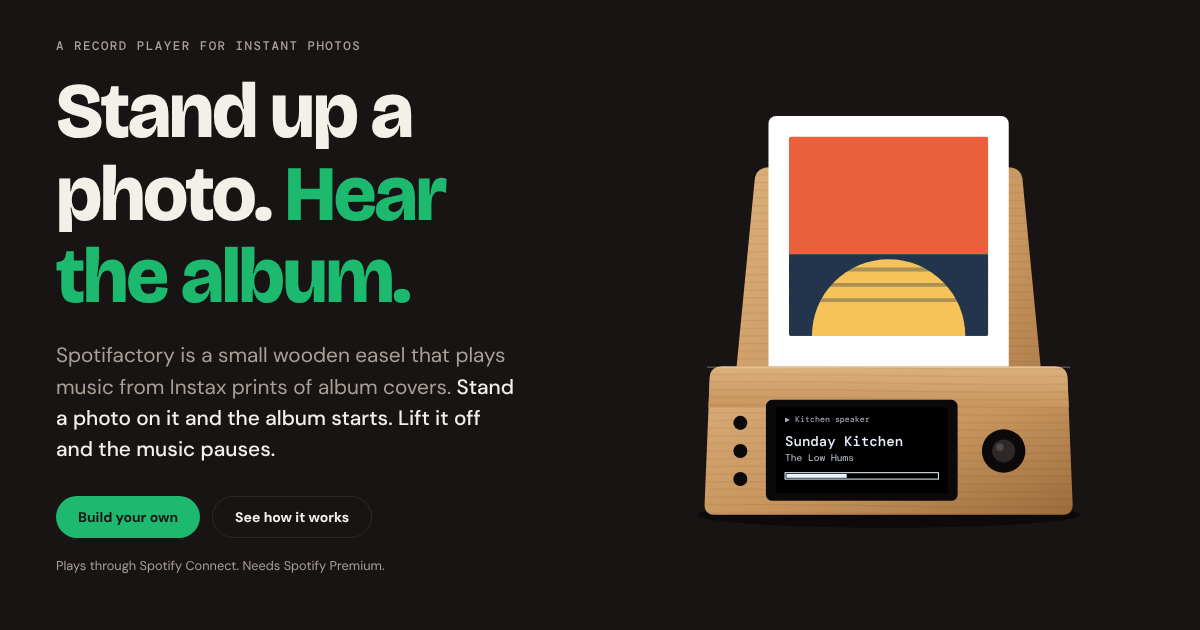
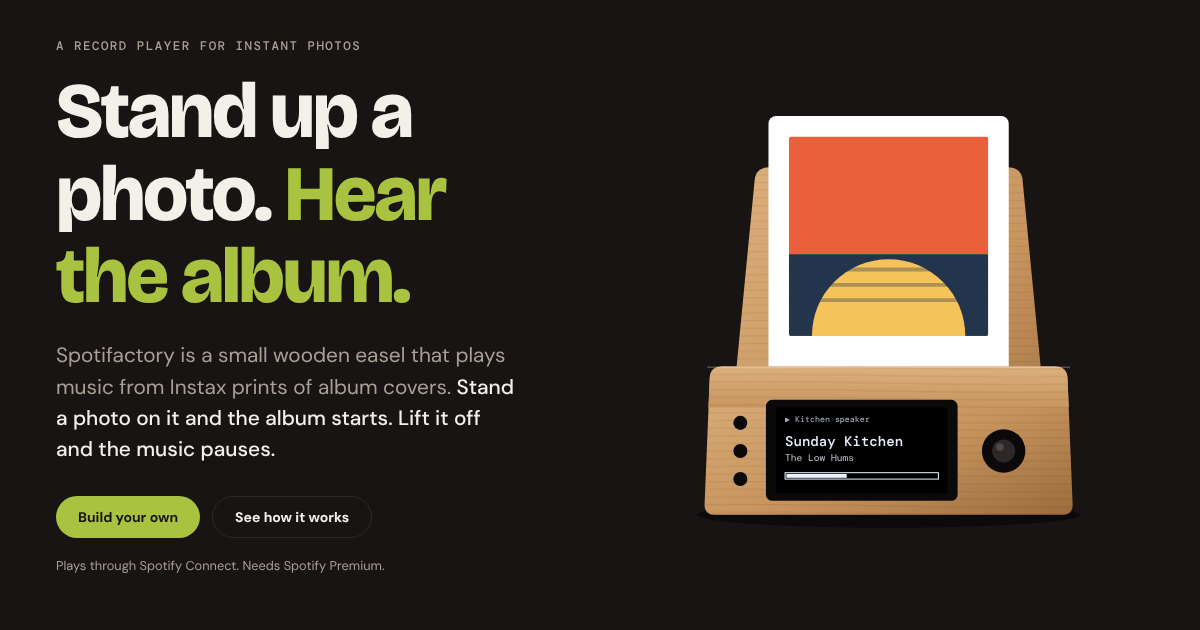
Site: switch the accent to avocado chartreuse #A9C23F
#5C6B1C for text on light backgrounds. Regenerates the favicon and the
link-preview image.

Claude-Session: https://claude.ai/code/session_01TuwtPvwNTAgBcr1MLb96hW

Changed region(s): [[0.0308, 0.3921, 0.3392, 0.4825], [0.2158, 0.2714, 0.37, 0.3619], [0.0308, 0.7841, 0.185, 0.8746]]

diff --git a/site/index.html b/site/index.html
@@ -25,8 +25,8 @@ img { max-width: 100%; }
   --ink: #191414;          /* brand ink, page ground */
   --ink-2: #221d1d;        /* raised surfaces */
   --ink-3: #2e2727;        /* hairlines on ink */
-  --green: #1DB96E;        /* brand green, used sparingly */
-  --green-deep: #128A52;   /* green on paper */
+  --green: #A9C23F;        /* brand green, used sparingly */
+  --green-deep: #5C6B1C;   /* green on paper */
   --paper: #f7f4ef;        /* Instax film white, warm */
   --paper-2: #ebe5dc;
   --fg: #f3efe9;           /* text on ink */
@@ -303,9 +303,9 @@ footer p { max-width: 62ch; }
   <div class="wrap">
     <a href="#" aria-label="Spotifactory home"><svg class="lockup" role="img" aria-label="Spotifactory" xmlns="http://www.w3.org/2000/svg" viewBox="0 0 298.46 64"><g transform="scale(0.74)"><rect width="72" height="86" rx="4" fill="#ffffff"/>
 <rect x="5" y="6" width="62" height="62" rx="1" fill="#191414"/>
-<circle cx="36" cy="37" r="24" fill="#1DB96E"/>
+<circle cx="36" cy="37" r="24" fill="#A9C23F"/>
 <path d="M16.45,37a19.55,19.55 0 1,0 39.1,0a19.55,19.55 0 1,0 -39.1,0ZM17.55,37a18.45,18.45 0 1,0 36.9,0a18.45,18.45 0 1,0 -36.9,0ZM20.95,37a15.05,15.05 0 1,0 30.1,0a15.05,15.05 0 1,0 -30.1,0ZM22.05,37a13.95,13.95 0 1,0 27.9,0a13.95,13.95 0 1,0 -27.9,0Z" fill="#191414" fill-rule="evenodd" opacity="0.45"/>
-<circle cx="36" cy="37" r="8" fill="#191414"/><circle cx="36" cy="37" r="2.2" fill="#1DB96E"/></g><path d="M81.55 46.48Q78.52 46.48 76.13 45.43Q73.75 44.38 72.38 42.38Q71.01 40.38 70.94 37.55H76.66Q76.71 38.82 77.3 39.81Q77.88 40.8 78.96 41.38Q80.04 41.95 81.54 41.95Q82.79 41.95 83.73 41.56Q84.68 41.18 85.22 40.42Q85.76 39.66 85.76 38.57Q85.76 37.36 85.16 36.55Q84.56 35.74 83.52 35.17Q82.48 34.61 81.16 34.16Q79.84 33.71 78.4 33.22Q75.08 32.09 73.32 30.28Q71.57 28.47 71.57 25.49Q71.57 23 72.78 21.23Q73.99 19.45 76.15 18.48Q78.31 17.52 81.07 17.52Q83.92 17.52 86.06 18.51Q88.21 19.5 89.45 21.32Q90.7 23.14 90.77 25.66H84.98Q84.96 24.64 84.45 23.82Q83.95 23.01 83.07 22.52Q82.18 22.03 80.97 22.03Q79.92 22 79.07 22.34Q78.22 22.69 77.72 23.37Q77.23 24.06 77.23 25.12Q77.23 26.11 77.7 26.8Q78.18 27.49 79.05 27.98Q79.92 28.47 81.11 28.92Q82.3 29.36 83.74 29.84Q85.85 30.55 87.6 31.53Q89.35 32.51 90.4 34.07Q91.45 35.63 91.45 38.16Q91.45 40.38 90.31 42.28Q89.18 44.17 86.98 45.32Q84.78 46.48 81.55 46.48Z M94.42 54.4V26.16H99.09L99.54 29.29H99.62Q100.32 28.23 101.29 27.42Q102.27 26.6 103.58 26.14Q104.89 25.68 106.53 25.68Q109.34 25.68 111.47 27.03Q113.6 28.39 114.82 30.74Q116.04 33.08 116.04 36.1Q116.04 39.1 114.82 41.45Q113.6 43.8 111.45 45.14Q109.3 46.48 106.43 46.48Q104.17 46.48 102.5 45.63Q100.83 44.78 99.82 43.4V54.4ZM105.14 41.93Q106.75 41.93 107.98 41.18Q109.2 40.44 109.89 39.13Q110.57 37.82 110.57 36.1Q110.57 34.39 109.89 33.07Q109.2 31.76 107.98 31.01Q106.75 30.25 105.14 30.25Q103.53 30.25 102.3 31.01Q101.06 31.76 100.37 33.07Q99.69 34.38 99.69 36.09Q99.69 37.8 100.37 39.12Q101.06 40.44 102.3 41.18Q103.53 41.93 105.14 41.93Z M128.6 46.48Q125.74 46.48 123.43 45.15Q121.12 43.83 119.77 41.48Q118.42 39.13 118.42 36.09Q118.42 33.01 119.78 30.66Q121.14 28.31 123.45 27Q125.77 25.68 128.63 25.68Q131.51 25.68 133.82 27Q136.13 28.31 137.48 30.66Q138.83 33.01 138.83 36.09Q138.83 39.15 137.47 41.49Q136.12 43.83 133.8 45.15Q131.49 46.48 128.6 46.48ZM128.6 41.88Q129.91 41.88 130.97 41.23Q132.02 40.59 132.67 39.29Q133.32 38 133.32 36.08Q133.32 34.14 132.68 32.86Q132.04 31.57 130.98 30.92Q129.92 30.28 128.65 30.28Q127.38 30.28 126.31 30.92Q125.23 31.57 124.58 32.86Q123.93 34.15 123.93 36.08Q123.93 38 124.58 39.29Q125.23 40.59 126.29 41.23Q127.35 41.88 128.6 41.88Z M150.81 46Q148.7 46 147.11 45.33Q145.52 44.67 144.65 43.13Q143.77 41.59 143.77 38.94V30.57H140.38V26.16H143.77L144.37 20.77H149.17V26.16H154.45V30.57H149.17V38.98Q149.17 40.39 149.77 40.93Q150.36 41.47 151.82 41.47H154.34V46Z M157.35 46V26.16H162.75V46ZM160.06 23.47Q158.59 23.47 157.66 22.6Q156.73 21.72 156.73 20.41Q156.73 19.09 157.66 18.23Q158.59 17.36 160.06 17.36Q161.54 17.36 162.48 18.23Q163.41 19.09 163.41 20.42Q163.41 21.72 162.48 22.59Q161.54 23.47 160.06 23.47Z" class="spoti"/><path d="M167.94 46V24.43Q167.94 21.93 168.79 20.44Q169.64 18.95 171.21 18.27Q172.77 17.6 174.88 17.6H177.11V22.13H175.72Q174.44 22.13 173.89 22.65Q173.34 23.16 173.34 24.38V46ZM165.25 30.57V26.16H177.52V30.57Z M186.61 46.48Q184.16 46.48 182.57 45.68Q180.98 44.87 180.22 43.51Q179.46 42.14 179.46 40.5Q179.46 38.67 180.41 37.29Q181.35 35.9 183.27 35.11Q185.19 34.32 188.1 34.32H193.09Q193.09 32.86 192.67 31.91Q192.26 30.96 191.4 30.49Q190.54 30.02 189.21 30.02Q187.67 30.02 186.56 30.71Q185.45 31.4 185.2 32.83H179.96Q180.17 30.64 181.4 29.05Q182.63 27.45 184.66 26.57Q186.69 25.68 189.24 25.68Q192.09 25.68 194.17 26.63Q196.25 27.58 197.37 29.39Q198.49 31.2 198.49 33.8V46H193.98L193.39 42.92H193.31Q192.8 43.76 192.12 44.42Q191.44 45.08 190.6 45.54Q189.77 45.99 188.77 46.24Q187.77 46.48 186.61 46.48ZM188.15 42.3Q189.23 42.3 190.06 41.93Q190.89 41.57 191.48 40.92Q192.07 40.27 192.41 39.42Q192.76 38.58 192.88 37.63V37.62H188.71Q187.48 37.62 186.69 37.93Q185.9 38.24 185.53 38.78Q185.16 39.32 185.16 40.04Q185.16 40.77 185.53 41.28Q185.91 41.79 186.58 42.05Q187.26 42.3 188.15 42.3Z M211.65 46.48Q208.54 46.48 206.2 45.14Q203.85 43.81 202.54 41.46Q201.22 39.12 201.22 36.1Q201.22 33.03 202.55 30.7Q203.88 28.37 206.24 27.02Q208.6 25.68 211.66 25.68Q215.51 25.68 218.14 27.68Q220.76 29.69 221.47 33.21H215.76Q215.41 31.8 214.28 31.02Q213.16 30.24 211.61 30.24Q210.24 30.24 209.13 30.93Q208.03 31.62 207.38 32.93Q206.73 34.24 206.73 36.08Q206.73 37.44 207.1 38.5Q207.46 39.57 208.12 40.33Q208.79 41.09 209.67 41.49Q210.56 41.89 211.62 41.89Q212.65 41.89 213.49 41.54Q214.33 41.2 214.93 40.54Q215.53 39.88 215.76 38.95H221.47Q220.76 42.39 218.13 44.43Q215.5 46.48 211.65 46.48Z M233.45 46Q231.34 46 229.75 45.33Q228.16 44.67 227.29 43.13Q226.41 41.59 226.41 38.94V30.57H223.02V26.16H226.41L227.01 20.77H231.81V26.16H237.09V30.57H231.81V38.98Q231.81 40.39 232.41 40.93Q233 41.47 234.46 41.47H236.98V46Z M249.16 46.48Q246.3 46.48 243.99 45.15Q241.68 43.83 240.33 41.48Q238.98 39.13 238.98 36.09Q238.98 33.01 240.34 30.66Q241.7 28.31 244.01 27Q246.33 25.68 249.19 25.68Q252.07 25.68 254.38 27Q256.69 28.31 258.04 30.66Q259.39 33.01 259.39 36.09Q259.39 39.15 258.03 41.49Q256.68 43.83 254.36 45.15Q252.05 46.48 249.16 46.48ZM249.16 41.88Q250.47 41.88 251.53 41.23Q252.58 40.59 253.23 39.29Q253.88 38 253.88 36.08Q253.88 34.14 253.24 32.86Q252.6 31.57 251.54 30.92Q250.48 30.28 249.21 30.28Q247.94 30.28 246.87 30.92Q245.79 31.57 245.14 32.86Q244.49 34.15 244.49 36.08Q244.49 38 245.14 39.29Q245.79 40.59 246.85 41.23Q247.91 41.88 249.16 41.88Z M262.36 46V26.16H267.06L267.55 30.19H267.63Q268.44 28.5 269.48 27.52Q270.53 26.54 271.89 26.11Q273.25 25.68 274.92 25.68V31.38H273.45Q272.14 31.38 271.08 31.68Q270.02 31.98 269.28 32.63Q268.54 33.28 268.15 34.37Q267.76 35.46 267.76 37.04V46Z M279.87 54.4 284.61 43.76H283.45L275.34 26.16H281.21L286.98 38.96H287.06L292.22 26.16H297.97L285.6 54.4Z" class="factory"/></svg></a>
+<circle cx="36" cy="37" r="8" fill="#191414"/><circle cx="36" cy="37" r="2.2" fill="#A9C23F"/></g><path d="M81.55 46.48Q78.52 46.48 76.13 45.43Q73.75 44.38 72.38 42.38Q71.01 40.38 70.94 37.55H76.66Q76.71 38.82 77.3 39.81Q77.88 40.8 78.96 41.38Q80.04 41.95 81.54 41.95Q82.79 41.95 83.73 41.56Q84.68 41.18 85.22 40.42Q85.76 39.66 85.76 38.57Q85.76 37.36 85.16 36.55Q84.56 35.74 83.52 35.17Q82.48 34.61 81.16 34.16Q79.84 33.71 78.4 33.22Q75.08 32.09 73.32 30.28Q71.57 28.47 71.57 25.49Q71.57 23 72.78 21.23Q73.99 19.45 76.15 18.48Q78.31 17.52 81.07 17.52Q83.92 17.52 86.06 18.51Q88.21 19.5 89.45 21.32Q90.7 23.14 90.77 25.66H84.98Q84.96 24.64 84.45 23.82Q83.95 23.01 83.07 22.52Q82.18 22.03 80.97 22.03Q79.92 22 79.07 22.34Q78.22 22.69 77.72 23.37Q77.23 24.06 77.23 25.12Q77.23 26.11 77.7 26.8Q78.18 27.49 79.05 27.98Q79.92 28.47 81.11 28.92Q82.3 29.36 83.74 29.84Q85.85 30.55 87.6 31.53Q89.35 32.51 90.4 34.07Q91.45 35.63 91.45 38.16Q91.45 40.38 90.31 42.28Q89.18 44.17 86.98 45.32Q84.78 46.48 81.55 46.48Z M94.42 54.4V26.16H99.09L99.54 29.29H99.62Q100.32 28.23 101.29 27.42Q102.27 26.6 103.58 26.14Q104.89 25.68 106.53 25.68Q109.34 25.68 111.47 27.03Q113.6 28.39 114.82 30.74Q116.04 33.08 116.04 36.1Q116.04 39.1 114.82 41.45Q113.6 43.8 111.45 45.14Q109.3 46.48 106.43 46.48Q104.17 46.48 102.5 45.63Q100.83 44.78 99.82 43.4V54.4ZM105.14 41.93Q106.75 41.93 107.98 41.18Q109.2 40.44 109.89 39.13Q110.57 37.82 110.57 36.1Q110.57 34.39 109.89 33.07Q109.2 31.76 107.98 31.01Q106.75 30.25 105.14 30.25Q103.53 30.25 102.3 31.01Q101.06 31.76 100.37 33.07Q99.69 34.38 99.69 36.09Q99.69 37.8 100.37 39.12Q101.06 40.44 102.3 41.18Q103.53 41.93 105.14 41.93Z M128.6 46.48Q125.74 46.48 123.43 45.15Q121.12 43.83 119.77 41.48Q118.42 39.13 118.42 36.09Q118.42 33.01 119.78 30.66Q121.14 28.31 123.45 27Q125.77 25.68 128.63 25.68Q131.51 25.68 133.82 27Q136.13 28.31 137.48 30.66Q138.83 33.01 138.83 36.09Q138.83 39.15 137.47 41.49Q136.12 43.83 133.8 45.15Q131.49 46.48 128.6 46.48ZM128.6 41.88Q129.91 41.88 130.97 41.23Q132.02 40.59 132.67 39.29Q133.32 38 133.32 36.08Q133.32 34.14 132.68 32.86Q132.04 31.57 130.98 30.92Q129.92 30.28 128.65 30.28Q127.38 30.28 126.31 30.92Q125.23 31.57 124.58 32.86Q123.93 34.15 123.93 36.08Q123.93 38 124.58 39.29Q125.23 40.59 126.29 41.23Q127.35 41.88 128.6 41.88Z M150.81 46Q148.7 46 147.11 45.33Q145.52 44.67 144.65 43.13Q143.77 41.59 143.77 38.94V30.57H140.38V26.16H143.77L144.37 20.77H149.17V26.16H154.45V30.57H149.17V38.98Q149.17 40.39 149.77 40.93Q150.36 41.47 151.82 41.47H154.34V46Z M157.35 46V26.16H162.75V46ZM160.06 23.47Q158.59 23.47 157.66 22.6Q156.73 21.72 156.73 20.41Q156.73 19.09 157.66 18.23Q158.59 17.36 160.06 17.36Q161.54 17.36 162.48 18.23Q163.41 19.09 163.41 20.42Q163.41 21.72 162.48 22.59Q161.54 23.47 160.06 23.47Z" class="spoti"/><path d="M167.94 46V24.43Q167.94 21.93 168.79 20.44Q169.64 18.95 171.21 18.27Q172.77 17.6 174.88 17.6H177.11V22.13H175.72Q174.44 22.13 173.89 22.65Q173.34 23.16 173.34 24.38V46ZM165.25 30.57V26.16H177.52V30.57Z M186.61 46.48Q184.16 46.48 182.57 45.68Q180.98 44.87 180.22 43.51Q179.46 42.14 179.46 40.5Q179.46 38.67 180.41 37.29Q181.35 35.9 183.27 35.11Q185.19 34.32 188.1 34.32H193.09Q193.09 32.86 192.67 31.91Q192.26 30.96 191.4 30.49Q190.54 30.02 189.21 30.02Q187.67 30.02 186.56 30.71Q185.45 31.4 185.2 32.83H179.96Q180.17 30.64 181.4 29.05Q182.63 27.45 184.66 26.57Q186.69 25.68 189.24 25.68Q192.09 25.68 194.17 26.63Q196.25 27.58 197.37 29.39Q198.49 31.2 198.49 33.8V46H193.98L193.39 42.92H193.31Q192.8 43.76 192.12 44.42Q191.44 45.08 190.6 45.54Q189.77 45.99 188.77 46.24Q187.77 46.48 186.61 46.48ZM188.15 42.3Q189.23 42.3 190.06 41.93Q190.89 41.57 191.48 40.92Q192.07 40.27 192.41 39.42Q192.76 38.58 192.88 37.63V37.62H188.71Q187.48 37.62 186.69 37.93Q185.9 38.24 185.53 38.78Q185.16 39.32 185.16 40.04Q185.16 40.77 185.53 41.28Q185.91 41.79 186.58 42.05Q187.26 42.3 188.15 42.3Z M211.65 46.48Q208.54 46.48 206.2 45.14Q203.85 43.81 202.54 41.46Q201.22 39.12 201.22 36.1Q201.22 33.03 202.55 30.7Q203.88 28.37 206.24 27.02Q208.6 25.68 211.66 25.68Q215.51 25.68 218.14 27.68Q220.76 29.69 221.47 33.21H215.76Q215.41 31.8 214.28 31.02Q213.16 30.24 211.61 30.24Q210.24 30.24 209.13 30.93Q208.03 31.62 207.38 32.93Q206.73 34.24 206.73 36.08Q206.73 37.44 207.1 38.5Q207.46 39.57 208.12 40.33Q208.79 41.09 209.67 41.49Q210.56 41.89 211.62 41.89Q212.65 41.89 213.49 41.54Q214.33 41.2 214.93 40.54Q215.53 39.88 215.76 38.95H221.47Q220.76 42.39 218.13 44.43Q215.5 46.48 211.65 46.48Z M233.45 46Q231.34 46 229.75 45.33Q228.16 44.67 227.29 43.13Q226.41 41.59 226.41 38.94V30.57H223.02V26.16H226.41L227.01 20.77H231.81V26.16H237.09V30.57H231.81V38.98Q231.81 40.39 232.41 40.93Q233 41.47 234.46 41.47H236.98V46Z M249.16 46.48Q246.3 46.48 243.99 45.15Q241.68 43.83 240.33 41.48Q238.98 39.13 238.98 36.09Q238.98 33.01 240.34 30.66Q241.7 28.31 244.01 27Q246.33 25.68 249.19 25.68Q252.07 25.68 254.38 27Q256.69 28.31 258.04 30.66Q259.39 33.01 259.39 36.09Q259.39 39.15 258.03 41.49Q256.68 43.83 254.36 45.15Q252.05 46.48 249.16 46.48ZM249.16 41.88Q250.47 41.88 251.53 41.23Q252.58 40.59 253.23 39.29Q253.88 38 253.88 36.08Q253.88 34.14 253.24 32.86Q252.6 31.57 251.54 30.92Q250.48 30.28 249.21 30.28Q247.94 30.28 246.87 30.92Q245.79 31.57 245.14 32.86Q244.49 34.15 244.49 36.08Q244.49 38 245.14 39.29Q245.79 40.59 246.85 41.23Q247.91 41.88 249.16 41.88Z M262.36 46V26.16H267.06L267.55 30.19H267.63Q268.44 28.5 269.48 27.52Q270.53 26.54 271.89 26.11Q273.25 25.68 274.92 25.68V31.38H273.45Q272.14 31.38 271.08 31.68Q270.02 31.98 269.28 32.63Q268.54 33.28 268.15 34.37Q267.76 35.46 267.76 37.04V46Z M279.87 54.4 284.61 43.76H283.45L275.34 26.16H281.21L286.98 38.96H287.06L292.22 26.16H297.97L285.6 54.4Z" class="factory"/></svg></a>
     <nav class="nav" aria-label="Sections">
       <a href="#how">How it works</a>
       <a href="#photos">Photos</a>

diff --git a/docs/website.md b/docs/website.md
@@ -30,5 +30,5 @@ and each pull request gets its own preview URL.
 
 ## Colours
 
-Ink `#191414`, green `#1DB96E` (on light backgrounds `#128A52`). The green is
-deliberately a little off Spotify's own brand green.
+Ink `#191414` and avocado chartreuse `#A9C23F` (on light backgrounds
+`#5C6B1C`). The accent was moved off Spotify's brand green on purpose.
